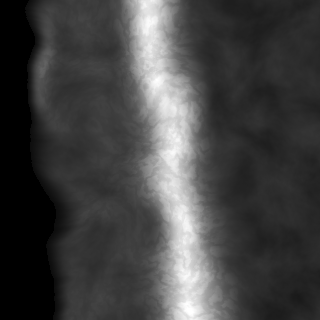
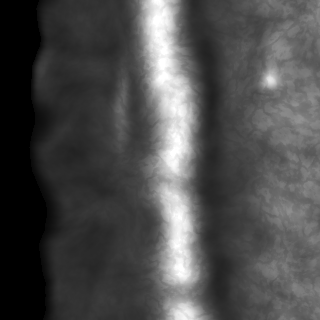
Reshape the Fellowship map to follow Tolkien's Middle-earth
The Eriador heightmap now follows the canonical map (checked against
Tolkien Gateway distances and the Oxford/Florence latitude anchor):

- Western Sea of Belegaer with the Gulf of Lune biting east to the Grey
  Havens; the Blue Mountains (Ered Luin) wall the NW coast and fade south
  around the Shire's latitude.
- The Misty Mountains are a long, near-full-height N-S wall tilted so the
  southern end sits a touch east, notched by the Redhorn pass over Moria at
  the midpoint and opening to the Gap of Rohan in the south — no longer a
  smooth central slab.
- East of the wall: the low vale of the Anduin, then Wilderland rising to
  the Mirkwood highlands, with Erebor an isolated peak in the north-east.

Also raise the snow line so the range reads as grey stone with snowy peaks
rather than a solid white massif, re-place the Fellowship markers/route to
their canonical positions, and add Ered Luin / Vale of Anduin / Mirkwood /
Wilderland region labels (revealed across the tour).

Claude-Session: https://claude.ai/code/session_012xHrYLbmC7QAWTN7iQqSjY

diff --git a/src/stories/fotr.ts b/src/stories/fotr.ts
@@ -35,7 +35,9 @@ export const fotr: Story = {
       { maxHeight: 0.08, color: '#cdbf94', name: 'Shore' },
       { maxHeight: 0.3, color: '#3f7a45', name: 'Green Country' },
       { maxHeight: 0.52, color: '#4a5d23', name: 'Wolds' },
-      { maxHeight: 0.74, color: '#8c8c8c', name: 'Mountains' },
+      // Most of the Misty Mountains read as grey stone; only the peaks catch
+      // snow — closer to Tolkien's line-drawn range than a solid white wall.
+      { maxHeight: 0.85, color: '#8c8c8c', name: 'Mountains' },
       { maxHeight: 1.0, color: '#f4f4f4', name: 'Snows' },
     ],
   },
@@ -49,7 +51,7 @@ export const fotr: Story = {
       id: 'grey-havens',
       name: 'The Grey Havens',
       kind: 'port',
-      at: { x: -0.82, z: -0.28 },
+      at: { x: -0.82, z: -0.27 },
       description:
         'Mithlond, the elven harbour on the Gulf of Lune, from whose quays the ' +
         'last ships sail into the West.',
@@ -58,28 +60,28 @@ export const fotr: Story = {
       id: 'hobbiton',
       name: 'Hobbiton',
       kind: 'town',
-      at: { x: -0.56, z: -0.24 },
+      at: { x: -0.6, z: -0.13 },
       description: 'A peaceful, pastoral village in the Shire.',
     },
     {
       id: 'bree',
       name: 'Bree',
       kind: 'town',
-      at: { x: -0.38, z: -0.19 },
+      at: { x: -0.4, z: -0.1 },
       description: 'A bustling crossroads town where men and hobbits mingle.',
     },
     {
       id: 'weathertop',
       name: 'Weathertop',
       kind: 'ruin',
-      at: { x: -0.24, z: -0.22 },
+      at: { x: -0.24, z: -0.13 },
       description: 'An ancient ruined watchtower atop a great hill.',
     },
     {
       id: 'rivendell',
       name: 'Rivendell',
       kind: 'city',
-      at: { x: -0.06, z: -0.32 },
+      at: { x: -0.02, z: -0.18 },
       description:
         'Imladris — a hidden refuge of the Elves in a deep valley at the ' +
         'western feet of the Misty Mountains.',
@@ -88,7 +90,7 @@ export const fotr: Story = {
       id: 'moria',
       name: 'Mines of Moria',
       kind: 'danger',
-      at: { x: 0.04, z: 0.02 },
+      at: { x: 0.11, z: 0.16 },
       description:
         'Khazad-dûm — an abandoned, dark dwarven realm delved beneath the ' +
         'Misty Mountains, entered from the west and left, barely, to the east.',
@@ -97,7 +99,7 @@ export const fotr: Story = {
       id: 'lothlorien',
       name: 'Lothlórien',
       kind: 'forest',
-      at: { x: 0.32, z: 0.12 },
+      at: { x: 0.34, z: 0.28 },
       description:
         'The golden elven wood beyond the mountains, on the near bank of the ' +
         'Great River.',
@@ -106,7 +108,7 @@ export const fotr: Story = {
       id: 'amon_hen',
       name: 'Amon Hen',
       kind: 'landmark',
-      at: { x: 0.26, z: 0.52 },
+      at: { x: 0.3, z: 0.6 },
       description:
         'The Hill of Sight above the falls of Rauros, where the Fellowship ' +
         'breaks.',
@@ -117,13 +119,13 @@ export const fotr: Story = {
       id: 'fellowship-path',
       name: 'Path of the Ringbearer',
       points: [
-        { x: -0.56, z: -0.24 },
-        { x: -0.38, z: -0.19 },
-        { x: -0.24, z: -0.22 },
-        { x: -0.06, z: -0.32 },
-        { x: 0.04, z: 0.02 },
-        { x: 0.32, z: 0.12 },
-        { x: 0.26, z: 0.52 },
+        { x: -0.6, z: -0.13 },
+        { x: -0.4, z: -0.1 },
+        { x: -0.24, z: -0.13 },
+        { x: -0.02, z: -0.18 },
+        { x: 0.11, z: 0.16 },
+        { x: 0.34, z: 0.28 },
+        { x: 0.3, z: 0.6 },
       ],
       color: '#ffaa00',
       style: 'solid',
@@ -133,10 +135,13 @@ export const fotr: Story = {
     },
   ],
   regions: [
-    { id: 'shire', name: 'The Shire', at: { x: -0.55, z: -0.28 }, scale: 1.0 },
-    { id: 'eriador', name: 'Eriador', at: { x: -0.3, z: 0.2 }, scale: 1.3 },
-    { id: 'misty-mountains', name: 'The Misty Mountains', at: { x: 0.02, z: -0.6 }, scale: 0.9 },
-    { id: 'wilderland', name: 'Wilderland', at: { x: 0.45, z: -0.15 }, scale: 1.1 },
+    { id: 'shire', name: 'The Shire', at: { x: -0.58, z: -0.16 }, scale: 1.0 },
+    { id: 'ered-luin', name: 'Ered Luin', at: { x: -0.8, z: -0.62 }, scale: 0.85 },
+    { id: 'eriador', name: 'Eriador', at: { x: -0.34, z: 0.24 }, scale: 1.3 },
+    { id: 'misty-mountains', name: 'The Misty Mountains', at: { x: 0.02, z: -0.62 }, scale: 0.9 },
+    { id: 'anduin', name: 'Vale of Anduin', at: { x: 0.34, z: -0.08 }, scale: 0.85 },
+    { id: 'mirkwood', name: 'Mirkwood', at: { x: 0.64, z: 0.06 }, scale: 1.0 },
+    { id: 'wilderland', name: 'Wilderland', at: { x: 0.5, z: 0.5 }, scale: 1.1 },
   ],
   elements: [
     {
@@ -166,7 +171,7 @@ export const fotr: Story = {
             'inheritance demands a dangerous departure. A small group sets out ' +
             'under the cover of darkness.',
           focus: { marker: 'hobbiton', distance: 15 },
-          reveal: { markers: ['hobbiton', 'bree'], regions: ['shire'] },
+          reveal: { markers: ['hobbiton', 'bree'], regions: ['shire', 'ered-luin'] },
           highlight: { markers: ['hobbiton'] },
         },
         {
@@ -199,7 +204,10 @@ export const fotr: Story = {
             'they are forced into perilous, dark underground paths where ' +
             'ancient terrors sleep.',
           focus: { marker: 'moria', distance: 20 },
-          reveal: { markers: ['moria', 'lothlorien'], regions: ['misty-mountains'] },
+          reveal: {
+            markers: ['moria', 'lothlorien'],
+            regions: ['misty-mountains', 'anduin'],
+          },
           highlight: { markers: ['moria'] },
         },
         {
@@ -210,7 +218,7 @@ export const fotr: Story = {
             'the river. Tragedy and conflict strike the group, forcing them to ' +
             'scatter.',
           focus: { marker: 'amon_hen', distance: 15 },
-          reveal: { markers: ['amon_hen'] },
+          reveal: { markers: ['amon_hen'], regions: ['mirkwood', 'wilderland'] },
           highlight: { markers: ['amon_hen'] },
         },
       ],
